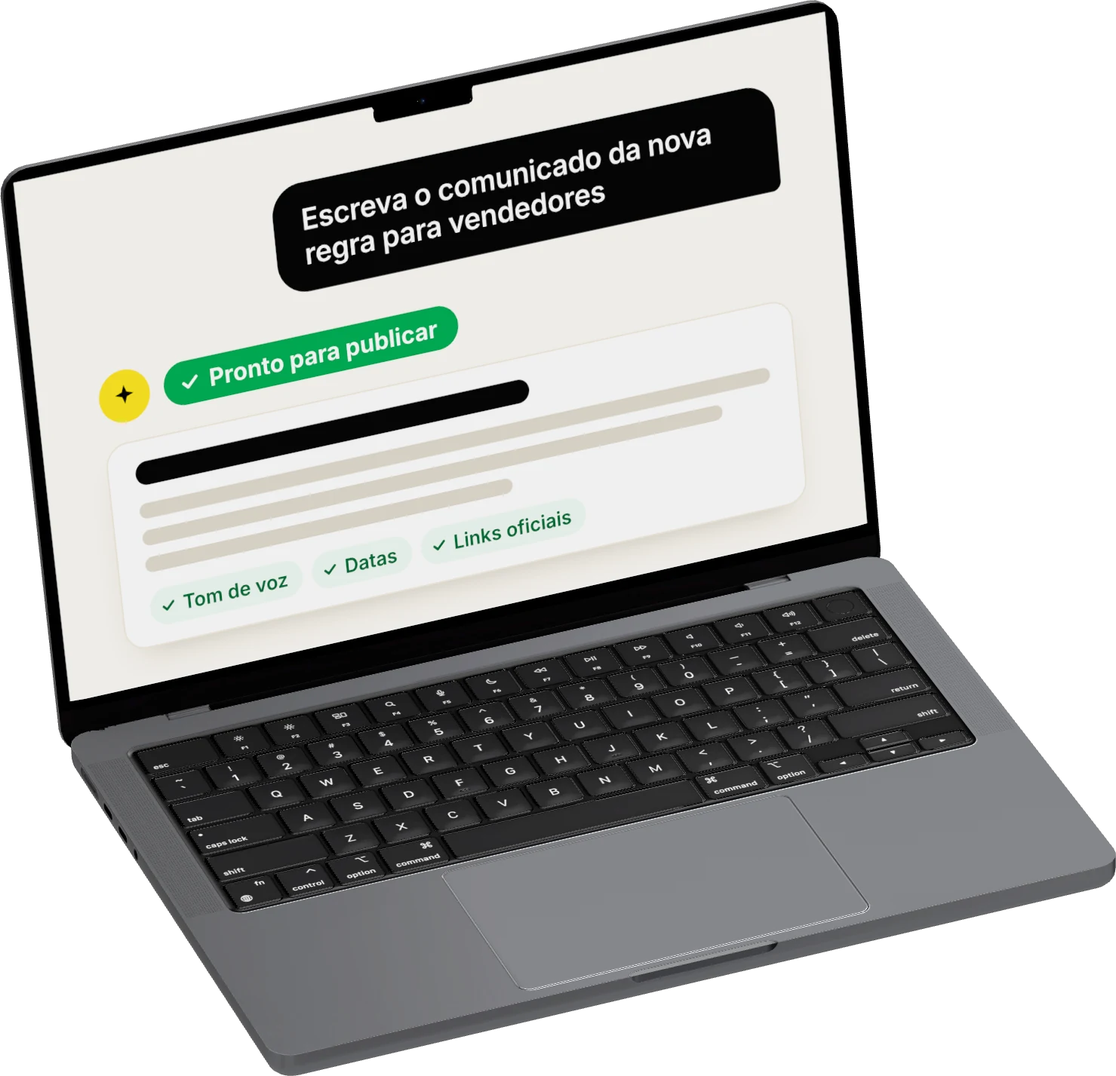
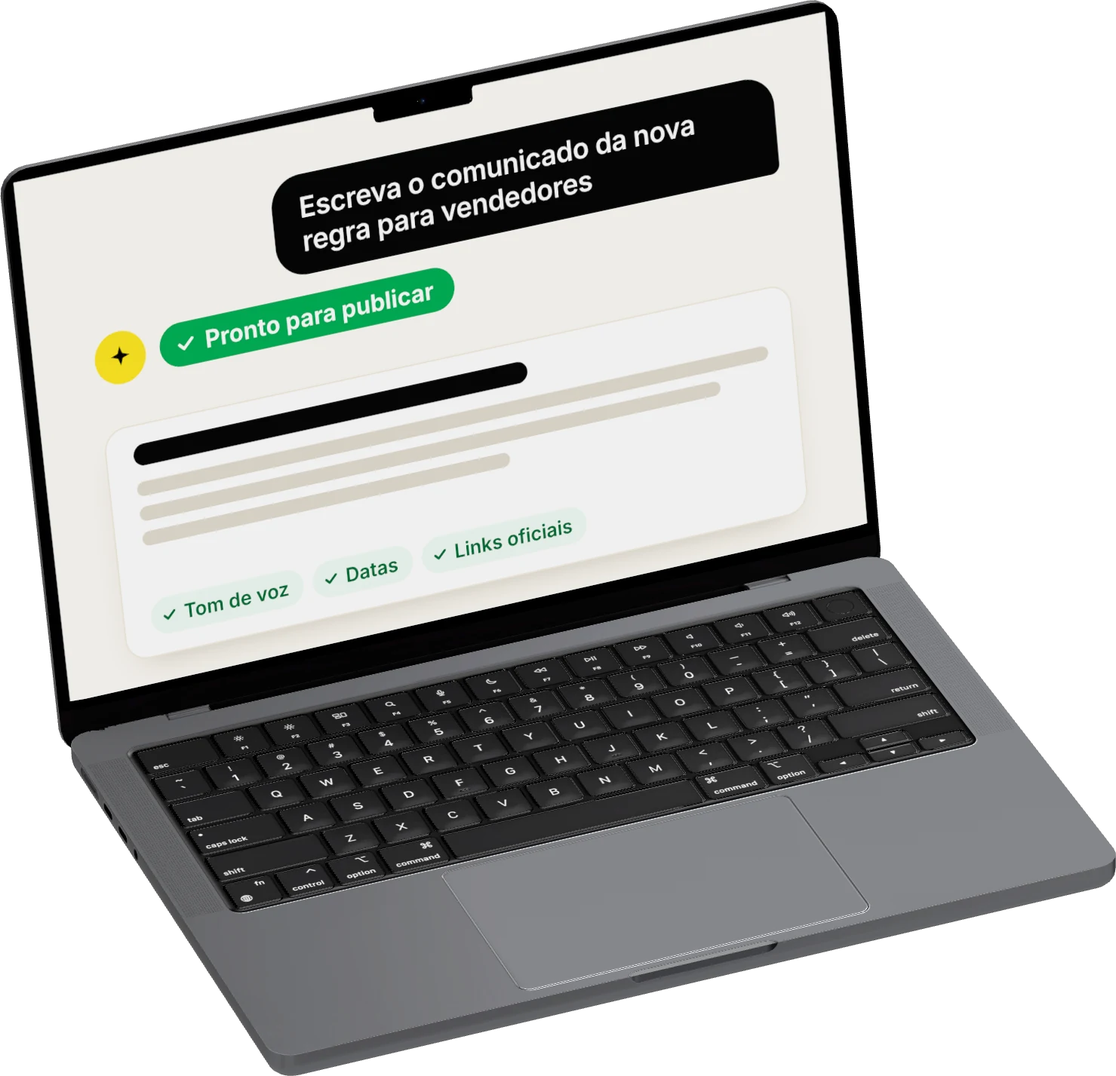
Squad de Comus: mais espaço entre as faixas e as tags da thumb animada (#7)
Claude-Session: https://claude.ai/code/session_011ETaZtr8DPnPDrrejMEoaU

Changed region(s): [[0.0622, 0.0617, 0.7153, 0.6167], [0.622, 0.4625, 0.7153, 0.4933]]

diff --git a/es/index.html b/es/index.html
@@ -104,7 +104,7 @@
 <div class="cs-cap"><p class="cs-bt">Asistente virtual en WhatsApp <span>Banco do Brasil</span></p><p class="cs-bd">Desambiguación de intenciones, fallback en dos pasos y traspaso de contexto para que la conversación no se trabe.</p><p class="cs-tags"><span>Diseño conversacional</span></p></div>
 </a>
 <a class="wk cs-card" href="#squad-de-comus" data-case="squad-de-comus" aria-label="Squad de Comus">
-<div class="cs-vis"><div class="cs-inner"><div class="dv3 dv3-desk has-lv"><span class="lvw"><img src="/mockups/squad-de-comus.webp?v=5" alt="Novedad publicada en español en el sitio de vendedores de Mercado Libre" width="1479" height="1427" loading="lazy" decoding="async"><span class="lv" aria-hidden="true"><span class="in" style="position:absolute;inset:0;display:block"><span class="pr t t-pt"><span class="w w0">Escreva</span> <span class="w w1">o</span> <span class="w w2">comunicado</span> <span class="w w3">da</span> <span class="w w4">nova</span> <span class="w w5">regra</span> <span class="w w6">para</span> <span class="w w7">vendedores</span> </span><span class="pr t t-en"><span class="w w0">Write</span> <span class="w w1">the</span> <span class="w w2">announcement</span> <span class="w w3">of</span> <span class="w w4">the</span> <span class="w w5">new</span> <span class="w w6">rule</span> <span class="w w7">for</span> <span class="w w8">sellers</span> </span><span class="pr t t-es"><span class="w w0">Escribe</span> <span class="w w1">el</span> <span class="w w2">comunicado</span> <span class="w w3">de</span> <span class="w w4">la</span> <span class="w w5">nueva</span> <span class="w w6">regla</span> <span class="w w7">para</span> <span class="w w8">vendedores</span> </span><span class="ar"><span class="av"><svg viewBox="0 0 24 24" fill="#1F1F1F"><path d="M12 2l2.2 6.3L20.5 10.5l-6.3 2.2L12 19l-2.2-6.3L3.5 10.5l6.3-2.2z"/></svg></span><span class="st"><span class="wr-w t t-pt" style="display:none"><span class="wr"><b style="font-weight:600;margin-right:10px">Escrevendo</b><i></i><i></i><i></i></span></span><span class="wr-w t t-en" style="display:none"><span class="wr"><b style="font-weight:600;margin-right:10px">Writing</b><i></i><i></i><i></i></span></span><span class="wr-w t t-es" style="display:none"><span class="wr"><b style="font-weight:600;margin-right:10px">Escribiendo</b><i></i><i></i><i></i></span></span><span class="rd-w t t-pt"><span class="rd"><svg viewBox="0 0 24 24" fill="none" stroke="currentColor" stroke-width="3.2" stroke-linecap="round" stroke-linejoin="round"><path d="M5 12.5l4.5 4.5L19 7.5"/></svg>Pronto para publicar</span></span><span class="rd-w t t-en"><span class="rd"><svg viewBox="0 0 24 24" fill="none" stroke="currentColor" stroke-width="3.2" stroke-linecap="round" stroke-linejoin="round"><path d="M5 12.5l4.5 4.5L19 7.5"/></svg>Ready to publish</span></span><span class="rd-w t t-es"><span class="rd"><svg viewBox="0 0 24 24" fill="none" stroke="currentColor" stroke-width="3.2" stroke-linecap="round" stroke-linejoin="round"><path d="M5 12.5l4.5 4.5L19 7.5"/></svg>Listo para publicar</span></span></span></span><span class="cd"><span class="tb" style="display:block"></span><span class="ln l1" style="display:block"></span><span class="ln l2" style="display:block"></span><span class="ln l3" style="display:block"></span><span class="cs"><span class="ch ch0 t t-pt"><svg viewBox="0 0 24 24" fill="none" stroke="currentColor" stroke-width="3.2" stroke-linecap="round" stroke-linejoin="round"><path d="M5 12.5l4.5 4.5L19 7.5"/></svg>Tom de voz</span><span class="ch ch0 t t-en"><svg viewBox="0 0 24 24" fill="none" stroke="currentColor" stroke-width="3.2" stroke-linecap="round" stroke-linejoin="round"><path d="M5 12.5l4.5 4.5L19 7.5"/></svg>Tone of voice</span><span class="ch ch0 t t-es"><svg viewBox="0 0 24 24" fill="none" stroke="currentColor" stroke-width="3.2" stroke-linecap="round" stroke-linejoin="round"><path d="M5 12.5l4.5 4.5L19 7.5"/></svg>Tono de voz</span><span class="ch ch1 t t-pt"><svg viewBox="0 0 24 24" fill="none" stroke="currentColor" stroke-width="3.2" stroke-linecap="round" stroke-linejoin="round"><path d="M5 12.5l4.5 4.5L19 7.5"/></svg>Datas</span><span class="ch ch1 t t-en"><svg viewBox="0 0 24 24" fill="none" stroke="currentColor" stroke-width="3.2" stroke-linecap="round" stroke-linejoin="round"><path d="M5 12.5l4.5 4.5L19 7.5"/></svg>Dates</span><span class="ch ch1 t t-es"><svg viewBox="0 0 24 24" fill="none" stroke="currentColor" stroke-width="3.2" stroke-linecap="round" stroke-linejoin="round"><path d="M5 12.5l4.5 4.5L19 7.5"/></svg>Fechas</span><span class="ch ch2 t t-pt"><svg viewBox="0 0 24 24" fill="none" stroke="currentColor" stroke-width="3.2" stroke-linecap="round" stroke-linejoin="round"><path d="M5 12.5l4.5 4.5L19 7.5"/></svg>Links oficiais</span><span class="ch ch2 t t-en"><svg viewBox="0 0 24 24" fill="none" stroke="currentColor" stroke-width="3.2" stroke-linecap="round" stroke-linejoin="round"><path d="M5 12.5l4.5 4.5L19 7.5"/></svg>Official links</span><span class="ch ch2 t t-es"><svg viewBox="0 0 24 24" fill="none" stroke="currentColor" stroke-width="3.2" stroke-linecap="round" stroke-linejoin="round"><path d="M5 12.5l4.5 4.5L19 7.5"/></svg>Links oficiales</span></span></span></span></span></span></div></div>
+<div class="cs-vis"><div class="cs-inner"><div class="dv3 dv3-desk has-lv"><span class="lvw"><img src="/mockups/squad-de-comus.webp?v=6" alt="Novedad publicada en español en el sitio de vendedores de Mercado Libre" width="1479" height="1427" loading="lazy" decoding="async"><span class="lv" aria-hidden="true"><span class="in" style="position:absolute;inset:0;display:block"><span class="pr t t-pt"><span class="w w0">Escreva</span> <span class="w w1">o</span> <span class="w w2">comunicado</span> <span class="w w3">da</span> <span class="w w4">nova</span> <span class="w w5">regra</span> <span class="w w6">para</span> <span class="w w7">vendedores</span> </span><span class="pr t t-en"><span class="w w0">Write</span> <span class="w w1">the</span> <span class="w w2">announcement</span> <span class="w w3">of</span> <span class="w w4">the</span> <span class="w w5">new</span> <span class="w w6">rule</span> <span class="w w7">for</span> <span class="w w8">sellers</span> </span><span class="pr t t-es"><span class="w w0">Escribe</span> <span class="w w1">el</span> <span class="w w2">comunicado</span> <span class="w w3">de</span> <span class="w w4">la</span> <span class="w w5">nueva</span> <span class="w w6">regla</span> <span class="w w7">para</span> <span class="w w8">vendedores</span> </span><span class="ar"><span class="av"><svg viewBox="0 0 24 24" fill="#1F1F1F"><path d="M12 2l2.2 6.3L20.5 10.5l-6.3 2.2L12 19l-2.2-6.3L3.5 10.5l6.3-2.2z"/></svg></span><span class="st"><span class="wr-w t t-pt" style="display:none"><span class="wr"><b style="font-weight:600;margin-right:10px">Escrevendo</b><i></i><i></i><i></i></span></span><span class="wr-w t t-en" style="display:none"><span class="wr"><b style="font-weight:600;margin-right:10px">Writing</b><i></i><i></i><i></i></span></span><span class="wr-w t t-es" style="display:none"><span class="wr"><b style="font-weight:600;margin-right:10px">Escribiendo</b><i></i><i></i><i></i></span></span><span class="rd-w t t-pt"><span class="rd"><svg viewBox="0 0 24 24" fill="none" stroke="currentColor" stroke-width="3.2" stroke-linecap="round" stroke-linejoin="round"><path d="M5 12.5l4.5 4.5L19 7.5"/></svg>Pronto para publicar</span></span><span class="rd-w t t-en"><span class="rd"><svg viewBox="0 0 24 24" fill="none" stroke="currentColor" stroke-width="3.2" stroke-linecap="round" stroke-linejoin="round"><path d="M5 12.5l4.5 4.5L19 7.5"/></svg>Ready to publish</span></span><span class="rd-w t t-es"><span class="rd"><svg viewBox="0 0 24 24" fill="none" stroke="currentColor" stroke-width="3.2" stroke-linecap="round" stroke-linejoin="round"><path d="M5 12.5l4.5 4.5L19 7.5"/></svg>Listo para publicar</span></span></span></span><span class="cd"><span class="tb" style="display:block"></span><span class="ln l1" style="display:block"></span><span class="ln l2" style="display:block"></span><span class="ln l3" style="display:block"></span><span class="cs"><span class="ch ch0 t t-pt"><svg viewBox="0 0 24 24" fill="none" stroke="currentColor" stroke-width="3.2" stroke-linecap="round" stroke-linejoin="round"><path d="M5 12.5l4.5 4.5L19 7.5"/></svg>Tom de voz</span><span class="ch ch0 t t-en"><svg viewBox="0 0 24 24" fill="none" stroke="currentColor" stroke-width="3.2" stroke-linecap="round" stroke-linejoin="round"><path d="M5 12.5l4.5 4.5L19 7.5"/></svg>Tone of voice</span><span class="ch ch0 t t-es"><svg viewBox="0 0 24 24" fill="none" stroke="currentColor" stroke-width="3.2" stroke-linecap="round" stroke-linejoin="round"><path d="M5 12.5l4.5 4.5L19 7.5"/></svg>Tono de voz</span><span class="ch ch1 t t-pt"><svg viewBox="0 0 24 24" fill="none" stroke="currentColor" stroke-width="3.2" stroke-linecap="round" stroke-linejoin="round"><path d="M5 12.5l4.5 4.5L19 7.5"/></svg>Datas</span><span class="ch ch1 t t-en"><svg viewBox="0 0 24 24" fill="none" stroke="currentColor" stroke-width="3.2" stroke-linecap="round" stroke-linejoin="round"><path d="M5 12.5l4.5 4.5L19 7.5"/></svg>Dates</span><span class="ch ch1 t t-es"><svg viewBox="0 0 24 24" fill="none" stroke="currentColor" stroke-width="3.2" stroke-linecap="round" stroke-linejoin="round"><path d="M5 12.5l4.5 4.5L19 7.5"/></svg>Fechas</span><span class="ch ch2 t t-pt"><svg viewBox="0 0 24 24" fill="none" stroke="currentColor" stroke-width="3.2" stroke-linecap="round" stroke-linejoin="round"><path d="M5 12.5l4.5 4.5L19 7.5"/></svg>Links oficiais</span><span class="ch ch2 t t-en"><svg viewBox="0 0 24 24" fill="none" stroke="currentColor" stroke-width="3.2" stroke-linecap="round" stroke-linejoin="round"><path d="M5 12.5l4.5 4.5L19 7.5"/></svg>Official links</span><span class="ch ch2 t t-es"><svg viewBox="0 0 24 24" fill="none" stroke="currentColor" stroke-width="3.2" stroke-linecap="round" stroke-linejoin="round"><path d="M5 12.5l4.5 4.5L19 7.5"/></svg>Links oficiales</span></span></span></span></span></span></div></div>
 <div class="cs-bar" aria-hidden="true"><p class="cs-bt">Squad de Comus <span>Mercado Libre</span></p><p class="cs-bd">Un programa de capacitación con IA para diseñadores que producen comunicaciones para vendedores.</p><p class="cs-tags"><span>Product Design</span><span>Content Design</span><span>Design Engineering</span></p></div>
 <span class="cs-badge" aria-hidden="true"><svg viewBox="0 0 13 13" width="12" height="12" fill="none" stroke="currentColor" stroke-width="1.6" stroke-linecap="round" stroke-linejoin="round" aria-hidden="true"><path d="M3.5 9.5l6-6M4.5 3.5h5v5"/></svg></span></div>
 <div class="cs-cap"><p class="cs-bt">Squad de Comus <span>Mercado Libre</span></p><p class="cs-bd">Un programa de capacitación con IA para diseñadores que producen comunicaciones para vendedores.</p><p class="cs-tags"><span>Product Design</span><span>Content Design</span><span>Design Engineering</span></p></div>

diff --git a/pt/index.html b/pt/index.html
@@ -122,7 +122,7 @@
 <div class="cs-cap"><p class="cs-bt">Assistente virtual no WhatsApp <span>Banco do Brasil</span></p><p class="cs-bd">Desambiguação de intenções, fallback em duas etapas e passagem de contexto para a conversa não travar.</p><p class="cs-tags"><span>Design conversacional</span></p></div>
 </a>
 <a class="wk cs-card" href="#squad-de-comus" data-case="squad-de-comus" aria-label="Squad de Comus">
-<div class="cs-vis"><div class="cs-inner"><div class="dv3 dv3-desk has-lv"><span class="lvw"><img src="/mockups/squad-de-comus.webp?v=5" alt="Post de novidades publicado em espanhol no site de vendedores do Mercado Livre" width="1479" height="1427" loading="lazy" decoding="async"><span class="lv" aria-hidden="true"><span class="in" style="position:absolute;inset:0;display:block"><span class="pr t t-pt"><span class="w w0">Escreva</span> <span class="w w1">o</span> <span class="w w2">comunicado</span> <span class="w w3">da</span> <span class="w w4">nova</span> <span class="w w5">regra</span> <span class="w w6">para</span> <span class="w w7">vendedores</span> </span><span class="pr t t-en"><span class="w w0">Write</span> <span class="w w1">the</span> <span class="w w2">announcement</span> <span class="w w3">of</span> <span class="w w4">the</span> <span class="w w5">new</span> <span class="w w6">rule</span> <span class="w w7">for</span> <span class="w w8">sellers</span> </span><span class="pr t t-es"><span class="w w0">Escribe</span> <span class="w w1">el</span> <span class="w w2">comunicado</span> <span class="w w3">de</span> <span class="w w4">la</span> <span class="w w5">nueva</span> <span class="w w6">regla</span> <span class="w w7">para</span> <span class="w w8">vendedores</span> </span><span class="ar"><span class="av"><svg viewBox="0 0 24 24" fill="#1F1F1F"><path d="M12 2l2.2 6.3L20.5 10.5l-6.3 2.2L12 19l-2.2-6.3L3.5 10.5l6.3-2.2z"/></svg></span><span class="st"><span class="wr-w t t-pt" style="display:none"><span class="wr"><b style="font-weight:600;margin-right:10px">Escrevendo</b><i></i><i></i><i></i></span></span><span class="wr-w t t-en" style="display:none"><span class="wr"><b style="font-weight:600;margin-right:10px">Writing</b><i></i><i></i><i></i></span></span><span class="wr-w t t-es" style="display:none"><span class="wr"><b style="font-weight:600;margin-right:10px">Escribiendo</b><i></i><i></i><i></i></span></span><span class="rd-w t t-pt"><span class="rd"><svg viewBox="0 0 24 24" fill="none" stroke="currentColor" stroke-width="3.2" stroke-linecap="round" stroke-linejoin="round"><path d="M5 12.5l4.5 4.5L19 7.5"/></svg>Pronto para publicar</span></span><span class="rd-w t t-en"><span class="rd"><svg viewBox="0 0 24 24" fill="none" stroke="currentColor" stroke-width="3.2" stroke-linecap="round" stroke-linejoin="round"><path d="M5 12.5l4.5 4.5L19 7.5"/></svg>Ready to publish</span></span><span class="rd-w t t-es"><span class="rd"><svg viewBox="0 0 24 24" fill="none" stroke="currentColor" stroke-width="3.2" stroke-linecap="round" stroke-linejoin="round"><path d="M5 12.5l4.5 4.5L19 7.5"/></svg>Listo para publicar</span></span></span></span><span class="cd"><span class="tb" style="display:block"></span><span class="ln l1" style="display:block"></span><span class="ln l2" style="display:block"></span><span class="ln l3" style="display:block"></span><span class="cs"><span class="ch ch0 t t-pt"><svg viewBox="0 0 24 24" fill="none" stroke="currentColor" stroke-width="3.2" stroke-linecap="round" stroke-linejoin="round"><path d="M5 12.5l4.5 4.5L19 7.5"/></svg>Tom de voz</span><span class="ch ch0 t t-en"><svg viewBox="0 0 24 24" fill="none" stroke="currentColor" stroke-width="3.2" stroke-linecap="round" stroke-linejoin="round"><path d="M5 12.5l4.5 4.5L19 7.5"/></svg>Tone of voice</span><span class="ch ch0 t t-es"><svg viewBox="0 0 24 24" fill="none" stroke="currentColor" stroke-width="3.2" stroke-linecap="round" stroke-linejoin="round"><path d="M5 12.5l4.5 4.5L19 7.5"/></svg>Tono de voz</span><span class="ch ch1 t t-pt"><svg viewBox="0 0 24 24" fill="none" stroke="currentColor" stroke-width="3.2" stroke-linecap="round" stroke-linejoin="round"><path d="M5 12.5l4.5 4.5L19 7.5"/></svg>Datas</span><span class="ch ch1 t t-en"><svg viewBox="0 0 24 24" fill="none" stroke="currentColor" stroke-width="3.2" stroke-linecap="round" stroke-linejoin="round"><path d="M5 12.5l4.5 4.5L19 7.5"/></svg>Dates</span><span class="ch ch1 t t-es"><svg viewBox="0 0 24 24" fill="none" stroke="currentColor" stroke-width="3.2" stroke-linecap="round" stroke-linejoin="round"><path d="M5 12.5l4.5 4.5L19 7.5"/></svg>Fechas</span><span class="ch ch2 t t-pt"><svg viewBox="0 0 24 24" fill="none" stroke="currentColor" stroke-width="3.2" stroke-linecap="round" stroke-linejoin="round"><path d="M5 12.5l4.5 4.5L19 7.5"/></svg>Links oficiais</span><span class="ch ch2 t t-en"><svg viewBox="0 0 24 24" fill="none" stroke="currentColor" stroke-width="3.2" stroke-linecap="round" stroke-linejoin="round"><path d="M5 12.5l4.5 4.5L19 7.5"/></svg>Official links</span><span class="ch ch2 t t-es"><svg viewBox="0 0 24 24" fill="none" stroke="currentColor" stroke-width="3.2" stroke-linecap="round" stroke-linejoin="round"><path d="M5 12.5l4.5 4.5L19 7.5"/></svg>Links oficiales</span></span></span></span></span></span></div></div>
+<div class="cs-vis"><div class="cs-inner"><div class="dv3 dv3-desk has-lv"><span class="lvw"><img src="/mockups/squad-de-comus.webp?v=6" alt="Post de novidades publicado em espanhol no site de vendedores do Mercado Livre" width="1479" height="1427" loading="lazy" decoding="async"><span class="lv" aria-hidden="true"><span class="in" style="position:absolute;inset:0;display:block"><span class="pr t t-pt"><span class="w w0">Escreva</span> <span class="w w1">o</span> <span class="w w2">comunicado</span> <span class="w w3">da</span> <span class="w w4">nova</span> <span class="w w5">regra</span> <span class="w w6">para</span> <span class="w w7">vendedores</span> </span><span class="pr t t-en"><span class="w w0">Write</span> <span class="w w1">the</span> <span class="w w2">announcement</span> <span class="w w3">of</span> <span class="w w4">the</span> <span class="w w5">new</span> <span class="w w6">rule</span> <span class="w w7">for</span> <span class="w w8">sellers</span> </span><span class="pr t t-es"><span class="w w0">Escribe</span> <span class="w w1">el</span> <span class="w w2">comunicado</span> <span class="w w3">de</span> <span class="w w4">la</span> <span class="w w5">nueva</span> <span class="w w6">regla</span> <span class="w w7">para</span> <span class="w w8">vendedores</span> </span><span class="ar"><span class="av"><svg viewBox="0 0 24 24" fill="#1F1F1F"><path d="M12 2l2.2 6.3L20.5 10.5l-6.3 2.2L12 19l-2.2-6.3L3.5 10.5l6.3-2.2z"/></svg></span><span class="st"><span class="wr-w t t-pt" style="display:none"><span class="wr"><b style="font-weight:600;margin-right:10px">Escrevendo</b><i></i><i></i><i></i></span></span><span class="wr-w t t-en" style="display:none"><span class="wr"><b style="font-weight:600;margin-right:10px">Writing</b><i></i><i></i><i></i></span></span><span class="wr-w t t-es" style="display:none"><span class="wr"><b style="font-weight:600;margin-right:10px">Escribiendo</b><i></i><i></i><i></i></span></span><span class="rd-w t t-pt"><span class="rd"><svg viewBox="0 0 24 24" fill="none" stroke="currentColor" stroke-width="3.2" stroke-linecap="round" stroke-linejoin="round"><path d="M5 12.5l4.5 4.5L19 7.5"/></svg>Pronto para publicar</span></span><span class="rd-w t t-en"><span class="rd"><svg viewBox="0 0 24 24" fill="none" stroke="currentColor" stroke-width="3.2" stroke-linecap="round" stroke-linejoin="round"><path d="M5 12.5l4.5 4.5L19 7.5"/></svg>Ready to publish</span></span><span class="rd-w t t-es"><span class="rd"><svg viewBox="0 0 24 24" fill="none" stroke="currentColor" stroke-width="3.2" stroke-linecap="round" stroke-linejoin="round"><path d="M5 12.5l4.5 4.5L19 7.5"/></svg>Listo para publicar</span></span></span></span><span class="cd"><span class="tb" style="display:block"></span><span class="ln l1" style="display:block"></span><span class="ln l2" style="display:block"></span><span class="ln l3" style="display:block"></span><span class="cs"><span class="ch ch0 t t-pt"><svg viewBox="0 0 24 24" fill="none" stroke="currentColor" stroke-width="3.2" stroke-linecap="round" stroke-linejoin="round"><path d="M5 12.5l4.5 4.5L19 7.5"/></svg>Tom de voz</span><span class="ch ch0 t t-en"><svg viewBox="0 0 24 24" fill="none" stroke="currentColor" stroke-width="3.2" stroke-linecap="round" stroke-linejoin="round"><path d="M5 12.5l4.5 4.5L19 7.5"/></svg>Tone of voice</span><span class="ch ch0 t t-es"><svg viewBox="0 0 24 24" fill="none" stroke="currentColor" stroke-width="3.2" stroke-linecap="round" stroke-linejoin="round"><path d="M5 12.5l4.5 4.5L19 7.5"/></svg>Tono de voz</span><span class="ch ch1 t t-pt"><svg viewBox="0 0 24 24" fill="none" stroke="currentColor" stroke-width="3.2" stroke-linecap="round" stroke-linejoin="round"><path d="M5 12.5l4.5 4.5L19 7.5"/></svg>Datas</span><span class="ch ch1 t t-en"><svg viewBox="0 0 24 24" fill="none" stroke="currentColor" stroke-width="3.2" stroke-linecap="round" stroke-linejoin="round"><path d="M5 12.5l4.5 4.5L19 7.5"/></svg>Dates</span><span class="ch ch1 t t-es"><svg viewBox="0 0 24 24" fill="none" stroke="currentColor" stroke-width="3.2" stroke-linecap="round" stroke-linejoin="round"><path d="M5 12.5l4.5 4.5L19 7.5"/></svg>Fechas</span><span class="ch ch2 t t-pt"><svg viewBox="0 0 24 24" fill="none" stroke="currentColor" stroke-width="3.2" stroke-linecap="round" stroke-linejoin="round"><path d="M5 12.5l4.5 4.5L19 7.5"/></svg>Links oficiais</span><span class="ch ch2 t t-en"><svg viewBox="0 0 24 24" fill="none" stroke="currentColor" stroke-width="3.2" stroke-linecap="round" stroke-linejoin="round"><path d="M5 12.5l4.5 4.5L19 7.5"/></svg>Official links</span><span class="ch ch2 t t-es"><svg viewBox="0 0 24 24" fill="none" stroke="currentColor" stroke-width="3.2" stroke-linecap="round" stroke-linejoin="round"><path d="M5 12.5l4.5 4.5L19 7.5"/></svg>Links oficiales</span></span></span></span></span></span></div></div>
 <div class="cs-bar" aria-hidden="true"><p class="cs-bt">Squad de Comus <span>Mercado Livre</span></p><p class="cs-bd">Um programa de capacitação com IA para designers que produzem comunicações para vendedores.</p><p class="cs-tags"><span>Product Design</span><span>Content Design</span><span>Design Engineering</span></p></div>
 <span class="cs-badge" aria-hidden="true"><svg viewBox="0 0 13 13" width="12" height="12" fill="none" stroke="currentColor" stroke-width="1.6" stroke-linecap="round" stroke-linejoin="round" aria-hidden="true"><path d="M3.5 9.5l6-6M4.5 3.5h5v5"/></svg></span></div>
 <div class="cs-cap"><p class="cs-bt">Squad de Comus <span>Mercado Livre</span></p><p class="cs-bd">Um programa de capacitação com IA para designers que produzem comunicações para vendedores.</p><p class="cs-tags"><span>Product Design</span><span>Content Design</span><span>Design Engineering</span></p></div>

diff --git a/index.html b/index.html
@@ -104,7 +104,7 @@
 <div class="cs-cap"><p class="cs-bt">Virtual assistant on WhatsApp <span>Banco do Brasil</span></p><p class="cs-bd">Intent disambiguation, a two-step fallback and context handoff, so the conversation doesn’t get stuck.</p><p class="cs-tags"><span>Conversational design</span></p></div>
 </a>
 <a class="wk cs-card" href="#squad-de-comus" data-case="squad-de-comus" aria-label="Squad de Comus">
-<div class="cs-vis"><div class="cs-inner"><div class="dv3 dv3-desk has-lv"><span class="lvw"><img src="/mockups/squad-de-comus.webp?v=5" alt="Published news post in Spanish on the Mercado Libre seller site" width="1479" height="1427" loading="lazy" decoding="async"><span class="lv" aria-hidden="true"><span class="in" style="position:absolute;inset:0;display:block"><span class="pr t t-pt"><span class="w w0">Escreva</span> <span class="w w1">o</span> <span class="w w2">comunicado</span> <span class="w w3">da</span> <span class="w w4">nova</span> <span class="w w5">regra</span> <span class="w w6">para</span> <span class="w w7">vendedores</span> </span><span class="pr t t-en"><span class="w w0">Write</span> <span class="w w1">the</span> <span class="w w2">announcement</span> <span class="w w3">of</span> <span class="w w4">the</span> <span class="w w5">new</span> <span class="w w6">rule</span> <span class="w w7">for</span> <span class="w w8">sellers</span> </span><span class="pr t t-es"><span class="w w0">Escribe</span> <span class="w w1">el</span> <span class="w w2">comunicado</span> <span class="w w3">de</span> <span class="w w4">la</span> <span class="w w5">nueva</span> <span class="w w6">regla</span> <span class="w w7">para</span> <span class="w w8">vendedores</span> </span><span class="ar"><span class="av"><svg viewBox="0 0 24 24" fill="#1F1F1F"><path d="M12 2l2.2 6.3L20.5 10.5l-6.3 2.2L12 19l-2.2-6.3L3.5 10.5l6.3-2.2z"/></svg></span><span class="st"><span class="wr-w t t-pt" style="display:none"><span class="wr"><b style="font-weight:600;margin-right:10px">Escrevendo</b><i></i><i></i><i></i></span></span><span class="wr-w t t-en" style="display:none"><span class="wr"><b style="font-weight:600;margin-right:10px">Writing</b><i></i><i></i><i></i></span></span><span class="wr-w t t-es" style="display:none"><span class="wr"><b style="font-weight:600;margin-right:10px">Escribiendo</b><i></i><i></i><i></i></span></span><span class="rd-w t t-pt"><span class="rd"><svg viewBox="0 0 24 24" fill="none" stroke="currentColor" stroke-width="3.2" stroke-linecap="round" stroke-linejoin="round"><path d="M5 12.5l4.5 4.5L19 7.5"/></svg>Pronto para publicar</span></span><span class="rd-w t t-en"><span class="rd"><svg viewBox="0 0 24 24" fill="none" stroke="currentColor" stroke-width="3.2" stroke-linecap="round" stroke-linejoin="round"><path d="M5 12.5l4.5 4.5L19 7.5"/></svg>Ready to publish</span></span><span class="rd-w t t-es"><span class="rd"><svg viewBox="0 0 24 24" fill="none" stroke="currentColor" stroke-width="3.2" stroke-linecap="round" stroke-linejoin="round"><path d="M5 12.5l4.5 4.5L19 7.5"/></svg>Listo para publicar</span></span></span></span><span class="cd"><span class="tb" style="display:block"></span><span class="ln l1" style="display:block"></span><span class="ln l2" style="display:block"></span><span class="ln l3" style="display:block"></span><span class="cs"><span class="ch ch0 t t-pt"><svg viewBox="0 0 24 24" fill="none" stroke="currentColor" stroke-width="3.2" stroke-linecap="round" stroke-linejoin="round"><path d="M5 12.5l4.5 4.5L19 7.5"/></svg>Tom de voz</span><span class="ch ch0 t t-en"><svg viewBox="0 0 24 24" fill="none" stroke="currentColor" stroke-width="3.2" stroke-linecap="round" stroke-linejoin="round"><path d="M5 12.5l4.5 4.5L19 7.5"/></svg>Tone of voice</span><span class="ch ch0 t t-es"><svg viewBox="0 0 24 24" fill="none" stroke="currentColor" stroke-width="3.2" stroke-linecap="round" stroke-linejoin="round"><path d="M5 12.5l4.5 4.5L19 7.5"/></svg>Tono de voz</span><span class="ch ch1 t t-pt"><svg viewBox="0 0 24 24" fill="none" stroke="currentColor" stroke-width="3.2" stroke-linecap="round" stroke-linejoin="round"><path d="M5 12.5l4.5 4.5L19 7.5"/></svg>Datas</span><span class="ch ch1 t t-en"><svg viewBox="0 0 24 24" fill="none" stroke="currentColor" stroke-width="3.2" stroke-linecap="round" stroke-linejoin="round"><path d="M5 12.5l4.5 4.5L19 7.5"/></svg>Dates</span><span class="ch ch1 t t-es"><svg viewBox="0 0 24 24" fill="none" stroke="currentColor" stroke-width="3.2" stroke-linecap="round" stroke-linejoin="round"><path d="M5 12.5l4.5 4.5L19 7.5"/></svg>Fechas</span><span class="ch ch2 t t-pt"><svg viewBox="0 0 24 24" fill="none" stroke="currentColor" stroke-width="3.2" stroke-linecap="round" stroke-linejoin="round"><path d="M5 12.5l4.5 4.5L19 7.5"/></svg>Links oficiais</span><span class="ch ch2 t t-en"><svg viewBox="0 0 24 24" fill="none" stroke="currentColor" stroke-width="3.2" stroke-linecap="round" stroke-linejoin="round"><path d="M5 12.5l4.5 4.5L19 7.5"/></svg>Official links</span><span class="ch ch2 t t-es"><svg viewBox="0 0 24 24" fill="none" stroke="currentColor" stroke-width="3.2" stroke-linecap="round" stroke-linejoin="round"><path d="M5 12.5l4.5 4.5L19 7.5"/></svg>Links oficiales</span></span></span></span></span></span></div></div>
+<div class="cs-vis"><div class="cs-inner"><div class="dv3 dv3-desk has-lv"><span class="lvw"><img src="/mockups/squad-de-comus.webp?v=6" alt="Published news post in Spanish on the Mercado Libre seller site" width="1479" height="1427" loading="lazy" decoding="async"><span class="lv" aria-hidden="true"><span class="in" style="position:absolute;inset:0;display:block"><span class="pr t t-pt"><span class="w w0">Escreva</span> <span class="w w1">o</span> <span class="w w2">comunicado</span> <span class="w w3">da</span> <span class="w w4">nova</span> <span class="w w5">regra</span> <span class="w w6">para</span> <span class="w w7">vendedores</span> </span><span class="pr t t-en"><span class="w w0">Write</span> <span class="w w1">the</span> <span class="w w2">announcement</span> <span class="w w3">of</span> <span class="w w4">the</span> <span class="w w5">new</span> <span class="w w6">rule</span> <span class="w w7">for</span> <span class="w w8">sellers</span> </span><span class="pr t t-es"><span class="w w0">Escribe</span> <span class="w w1">el</span> <span class="w w2">comunicado</span> <span class="w w3">de</span> <span class="w w4">la</span> <span class="w w5">nueva</span> <span class="w w6">regla</span> <span class="w w7">para</span> <span class="w w8">vendedores</span> </span><span class="ar"><span class="av"><svg viewBox="0 0 24 24" fill="#1F1F1F"><path d="M12 2l2.2 6.3L20.5 10.5l-6.3 2.2L12 19l-2.2-6.3L3.5 10.5l6.3-2.2z"/></svg></span><span class="st"><span class="wr-w t t-pt" style="display:none"><span class="wr"><b style="font-weight:600;margin-right:10px">Escrevendo</b><i></i><i></i><i></i></span></span><span class="wr-w t t-en" style="display:none"><span class="wr"><b style="font-weight:600;margin-right:10px">Writing</b><i></i><i></i><i></i></span></span><span class="wr-w t t-es" style="display:none"><span class="wr"><b style="font-weight:600;margin-right:10px">Escribiendo</b><i></i><i></i><i></i></span></span><span class="rd-w t t-pt"><span class="rd"><svg viewBox="0 0 24 24" fill="none" stroke="currentColor" stroke-width="3.2" stroke-linecap="round" stroke-linejoin="round"><path d="M5 12.5l4.5 4.5L19 7.5"/></svg>Pronto para publicar</span></span><span class="rd-w t t-en"><span class="rd"><svg viewBox="0 0 24 24" fill="none" stroke="currentColor" stroke-width="3.2" stroke-linecap="round" stroke-linejoin="round"><path d="M5 12.5l4.5 4.5L19 7.5"/></svg>Ready to publish</span></span><span class="rd-w t t-es"><span class="rd"><svg viewBox="0 0 24 24" fill="none" stroke="currentColor" stroke-width="3.2" stroke-linecap="round" stroke-linejoin="round"><path d="M5 12.5l4.5 4.5L19 7.5"/></svg>Listo para publicar</span></span></span></span><span class="cd"><span class="tb" style="display:block"></span><span class="ln l1" style="display:block"></span><span class="ln l2" style="display:block"></span><span class="ln l3" style="display:block"></span><span class="cs"><span class="ch ch0 t t-pt"><svg viewBox="0 0 24 24" fill="none" stroke="currentColor" stroke-width="3.2" stroke-linecap="round" stroke-linejoin="round"><path d="M5 12.5l4.5 4.5L19 7.5"/></svg>Tom de voz</span><span class="ch ch0 t t-en"><svg viewBox="0 0 24 24" fill="none" stroke="currentColor" stroke-width="3.2" stroke-linecap="round" stroke-linejoin="round"><path d="M5 12.5l4.5 4.5L19 7.5"/></svg>Tone of voice</span><span class="ch ch0 t t-es"><svg viewBox="0 0 24 24" fill="none" stroke="currentColor" stroke-width="3.2" stroke-linecap="round" stroke-linejoin="round"><path d="M5 12.5l4.5 4.5L19 7.5"/></svg>Tono de voz</span><span class="ch ch1 t t-pt"><svg viewBox="0 0 24 24" fill="none" stroke="currentColor" stroke-width="3.2" stroke-linecap="round" stroke-linejoin="round"><path d="M5 12.5l4.5 4.5L19 7.5"/></svg>Datas</span><span class="ch ch1 t t-en"><svg viewBox="0 0 24 24" fill="none" stroke="currentColor" stroke-width="3.2" stroke-linecap="round" stroke-linejoin="round"><path d="M5 12.5l4.5 4.5L19 7.5"/></svg>Dates</span><span class="ch ch1 t t-es"><svg viewBox="0 0 24 24" fill="none" stroke="currentColor" stroke-width="3.2" stroke-linecap="round" stroke-linejoin="round"><path d="M5 12.5l4.5 4.5L19 7.5"/></svg>Fechas</span><span class="ch ch2 t t-pt"><svg viewBox="0 0 24 24" fill="none" stroke="currentColor" stroke-width="3.2" stroke-linecap="round" stroke-linejoin="round"><path d="M5 12.5l4.5 4.5L19 7.5"/></svg>Links oficiais</span><span class="ch ch2 t t-en"><svg viewBox="0 0 24 24" fill="none" stroke="currentColor" stroke-width="3.2" stroke-linecap="round" stroke-linejoin="round"><path d="M5 12.5l4.5 4.5L19 7.5"/></svg>Official links</span><span class="ch ch2 t t-es"><svg viewBox="0 0 24 24" fill="none" stroke="currentColor" stroke-width="3.2" stroke-linecap="round" stroke-linejoin="round"><path d="M5 12.5l4.5 4.5L19 7.5"/></svg>Links oficiales</span></span></span></span></span></span></div></div>
 <div class="cs-bar" aria-hidden="true"><p class="cs-bt">Squad de Comus <span>Mercado Libre</span></p><p class="cs-bd">An AI-enabled training program for designers who produce communications for sellers.</p><p class="cs-tags"><span>Product Design</span><span>Content Design</span><span>Design Engineering</span></p></div>
 <span class="cs-badge" aria-hidden="true"><svg viewBox="0 0 13 13" width="12" height="12" fill="none" stroke="currentColor" stroke-width="1.6" stroke-linecap="round" stroke-linejoin="round" aria-hidden="true"><path d="M3.5 9.5l6-6M4.5 3.5h5v5"/></svg></span></div>
 <div class="cs-cap"><p class="cs-bt">Squad de Comus <span>Mercado Libre</span></p><p class="cs-bd">An AI-enabled training program for designers who produce communications for sellers.</p><p class="cs-tags"><span>Product Design</span><span>Content Design</span><span>Design Engineering</span></p></div>

diff --git a/styles.css b/styles.css
@@ -1333,9 +1333,9 @@ body:has(.wk-sheet.on) .nv-resume { opacity: 0; visibility: hidden; pointer-even
 
 .lv{font-family:"Inter",system-ui,-apple-system,"Segoe UI",sans-serif;background:#FAF8F3;color:#1F1F1F;overflow:hidden}
 .lv *{box-sizing:border-box;margin:0}
-.lv .pr{position:absolute;right:90px;top:112px;max-width:1010px;background:#1F1F1F;color:#fff;border-radius:60px 60px 18px 60px;padding:38px 56px;font-size:56px;line-height:1.18;font-weight:600;letter-spacing:-.01em}
+.lv .pr{position:absolute;right:90px;top:96px;max-width:1010px;background:#1F1F1F;color:#fff;border-radius:60px 60px 18px 60px;padding:32px 54px;font-size:54px;line-height:1.18;font-weight:600;letter-spacing:-.01em}
 .lv .w{display:inline-block}
-.lv .ar{position:absolute;left:90px;top:392px;height:100px;display:flex;align-items:center;gap:28px}
+.lv .ar{position:absolute;left:90px;top:318px;height:100px;display:flex;align-items:center;gap:28px}
 .lv .av{width:100px;height:100px;border-radius:50%;background:#FFE600;display:grid;place-items:center;flex:none}
 .lv .av svg{width:52px;height:52px}
 .lv .st{position:relative;height:100px;display:flex;align-items:center;font-size:48px;font-weight:600;color:#5b5750}
@@ -1343,11 +1343,11 @@ body:has(.wk-sheet.on) .nv-resume { opacity: 0; visibility: hidden; pointer-even
 .lv .wr i{width:12px;height:12px;border-radius:50%;background:#1F1F1F;display:block;margin-top:14px}
 .lv .rd{display:inline-flex;align-items:center;gap:16px;background:#00A650;color:#fff;border-radius:999px;padding:0 42px 0 30px;height:84px;font-size:46px;font-weight:700}
 .lv .rd svg{width:44px;height:44px}
-.lv .cd{position:absolute;left:90px;right:90px;top:530px;height:400px;background:#fff;border:3px solid #E9E4D9;border-radius:44px;padding:40px 52px;box-shadow:0 30px 70px -30px rgba(60,40,0,.28)}
-.lv .tb{height:46px;width:62%;border-radius:23px;background:#1F1F1F}
-.lv .ln{height:30px;border-radius:15px;background:#DAD5C9;margin-top:22px}
-.lv .l1{width:100%;margin-top:34px}.lv .l2{width:92%}.lv .l3{width:58%}
-.lv .cs{position:absolute;left:52px;bottom:34px;display:flex;gap:18px}
+.lv .cd{position:absolute;left:90px;right:90px;top:500px;height:450px;background:#fff;border:3px solid #E9E4D9;border-radius:44px;padding:36px 52px;box-shadow:0 30px 70px -30px rgba(60,40,0,.28)}
+.lv .tb{height:42px;width:62%;border-radius:21px;background:#1F1F1F}
+.lv .ln{height:28px;border-radius:14px;background:#DAD5C9;margin-top:20px}
+.lv .l1{width:100%;margin-top:30px}.lv .l2{width:92%}.lv .l3{width:58%}
+.lv .cs{position:absolute;left:52px;bottom:36px;display:flex;gap:18px}
 .lv .ch{display:inline-flex;align-items:center;gap:12px;height:72px;padding:0 30px 0 20px;border-radius:999px;background:#EEF8F1;color:#0b6b36;font-size:38px;font-weight:600;white-space:nowrap}
 .lv .ch svg{width:34px;height:34px}
 .lv .t{display:none}
